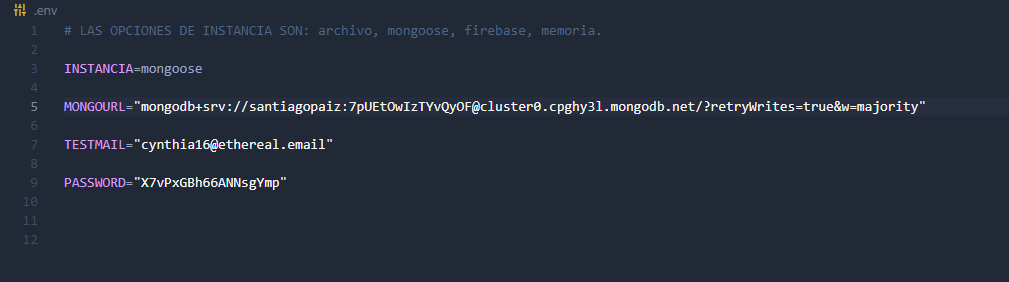
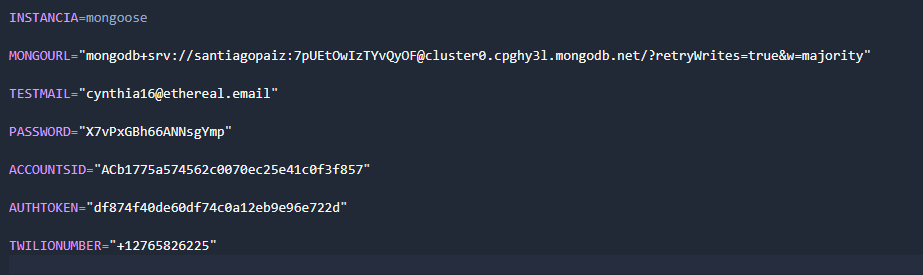
finalizando entrega

diff --git a/twilio/twilio.js b/twilio/twilio.js
@@ -1,0 +1,44 @@
+const twilio = require('twilio');
+require('dotenv').config()
+
+const accountSid = process.env.ACCOUNTSID;
+const authToken = process.env.AUTHTOKEN;
+const twilioNumber = process.env.TWILIONUMBER;
+
+const client = twilio(accountSid, authToken);
+
+const sendMsg = async (num) =>{
+    try {
+        const message = await client.messages.create({
+            body: "Tu pedido fue recibido y esta en proceso",
+            from: twilioNumber,
+            to: `${num}`
+        })
+        console.log(message)
+    } catch (error) {
+        console.log(error)
+    }
+}   
+
+const sendWspp= async (user, carrito) =>{
+    const carritoParsed = JSON.stringify(carrito, null, 4)
+    try {
+        const message = await client.messages.create({
+            body: `Nuevo pedido de ${user.nombre}, email: ${user.email}.
+            Productos: ${carritoParsed}
+            `,
+            from: 'whatsapp:+14155238886',
+            to: 'whatsapp:+5493454957242'
+        })
+        console.log(message)
+    } catch (error) {
+        console.log(error)
+    }
+}   
+
+
+module.exports = {
+    sendMsg,
+    sendWspp
+}
+

diff --git a/routes/routes.js b/routes/routes.js
@@ -1,6 +1,7 @@
 const Usuarios = require("../models/usuario");
 const { mailCompraFinalizada } = require("../nodemailer/nodemailer");
-const {resultado} = require("../src/daos/index")
+const {resultado} = require("../src/daos/index");
+const { sendMsg, sendWspp } = require("../twilio/twilio");
 const producto = new resultado.producto();
 const carrito = new resultado.carrito();
 
@@ -111,6 +112,8 @@ const postFinalizarCompra = async (req, res) =>{
     const carritoDB = await carrito.getById(carritoUserID);
     mailCompraFinalizada(user[0], carritoDB.productos);
     await carrito.updateCartById(carritoUserID, carritoUserTimestamp, vaciarCarrito);
+    sendMsg(user[0].telefono);
+    sendWspp(user[0], carritoDB.productos);
     res.redirect('/');
 }
 

diff --git a/nodemailer/nodemailer.js b/nodemailer/nodemailer.js
@@ -49,7 +49,7 @@ const mailCompraFinalizada= async (user, carrito) =>{
         to: TEST_MAIL,
         subject: 'Nuevo pedido',
         html: `<h1>Nuevo pedido de ${user.nombre}, email: ${user.email}</h1>
-                <h2>Orden de productos: ${productos.length} ${productos}</h2>
+                <h2>Orden de productos: ${carrito.length} ${productos}</h2>
                 `
             }
 

diff --git a/models/usuario.js b/models/usuario.js
@@ -6,7 +6,7 @@ const UsuarioSchema = new mongoose.Schema({
     password: { type: String, required: true, max:100},
     direccion: {type: String, required: true, max:100},
     edad: {type: Number, required: true, max:100},
-    telefono: {type: Number, required: true},
+    telefono: {type: String, required: true},
     avatar: {type: String, required: true},
     carrito:{type: Object}
 })

diff --git a/readme.md b/readme.md
@@ -1,9 +1,31 @@
 ## Proyecto final entrega 3
 
+
+# Informacion del env
+
+
 ![Informacion del env](./pics/env.png)
+
+
+# Mail de registro
 
 
 ![Mail de registro](./pics/mailRegistro.png)
 
 
+# Mail de pedido
+
+
 ![Mail de pedido](./pics/mailPedido.png)
+
+
+# Mensaje de twilio
+
+
+![Mensaje de twilio](./pics/twilioMsg.jpeg)
+
+
+# Wspp de twilio
+
+
+![Wspp de twilio](./pics//twilioWspp.jpeg)
